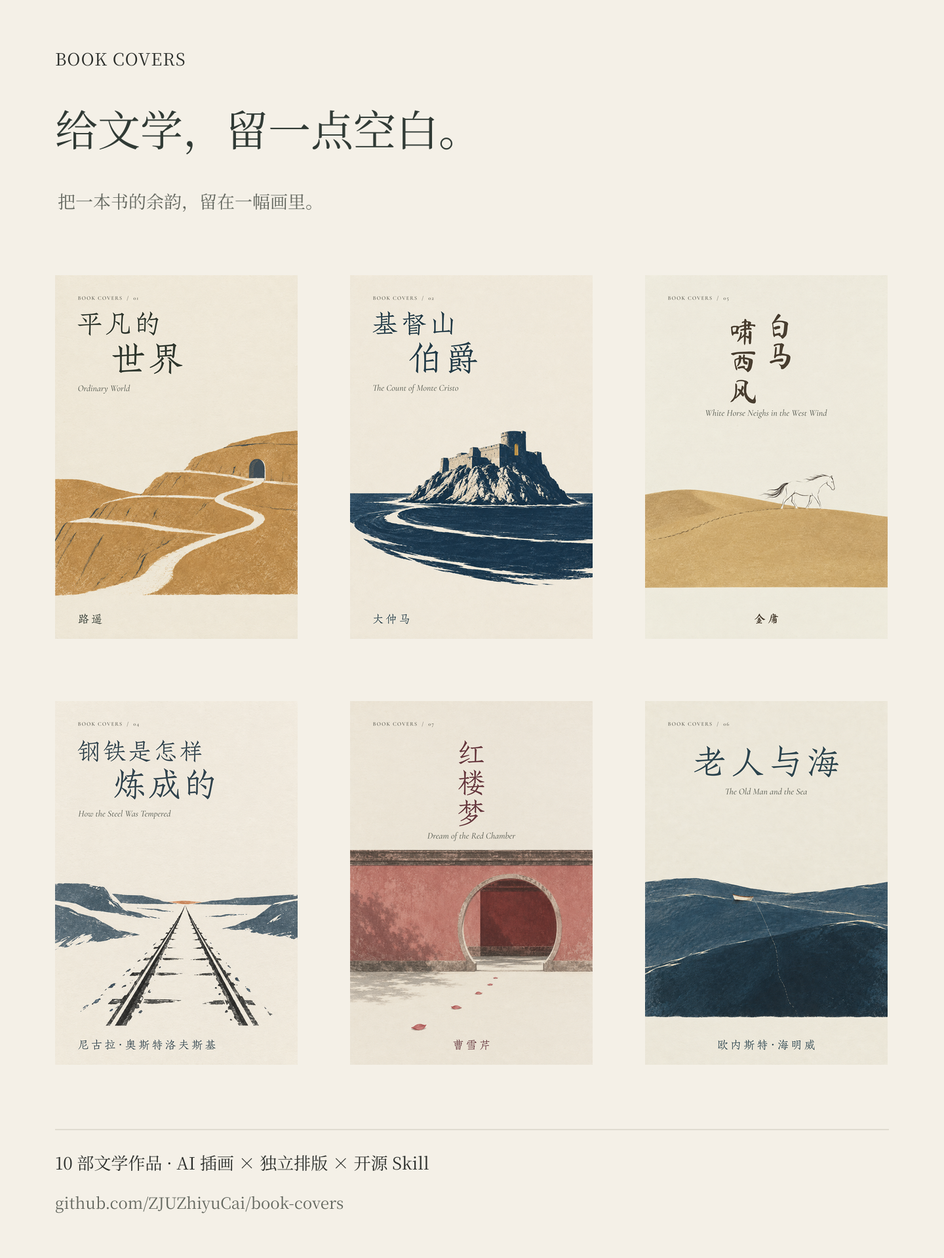
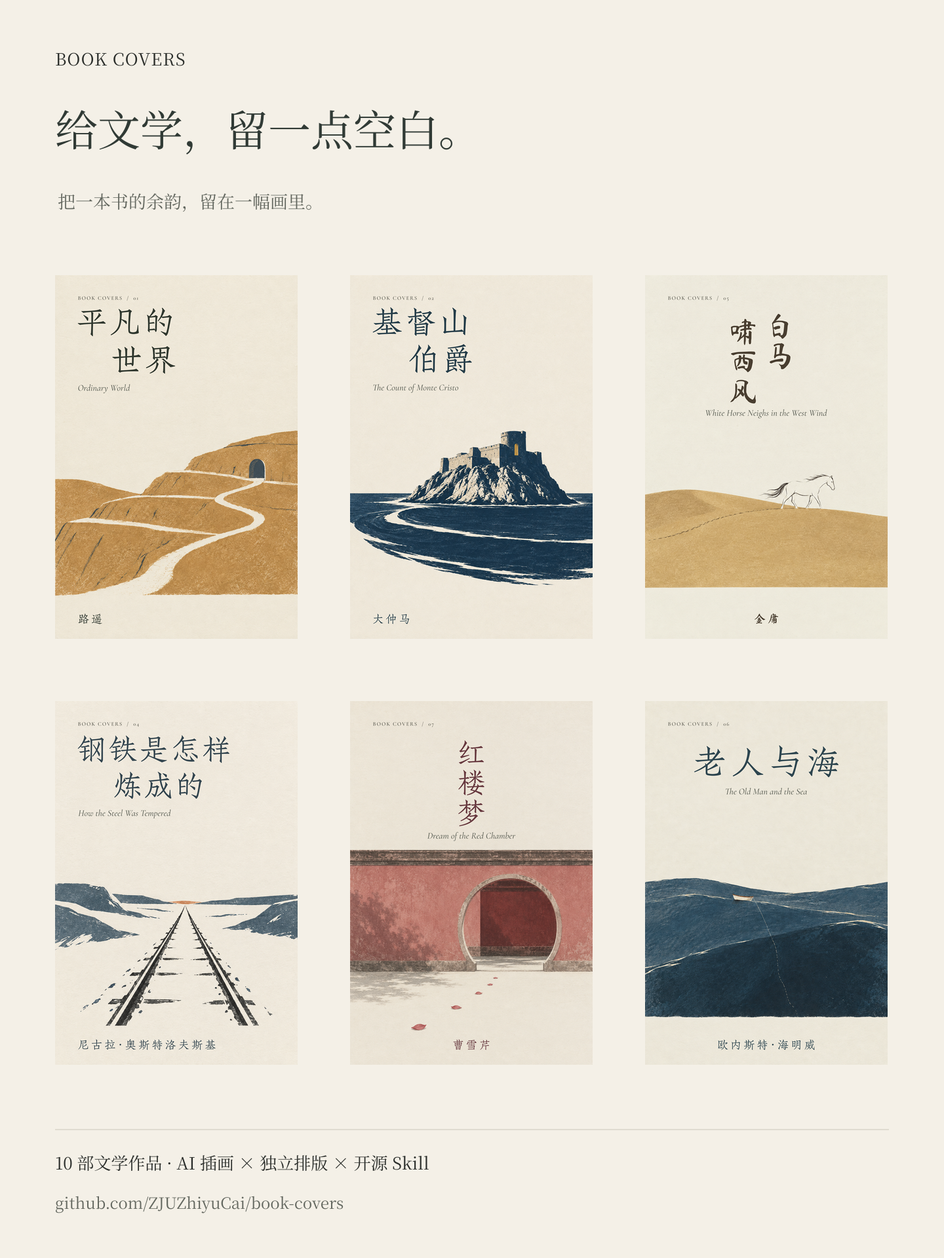
Make skill installation agent-native and equalize Chinese titles

Changed region(s): [[0.0938, 0.5625, 0.25, 0.6562], [0.4062, 0.25, 0.5, 0.3125], [0.0938, 0.25, 0.1875, 0.3125]]

diff --git a/src/style.css b/src/style.css
@@ -468,6 +468,24 @@ a:hover {
   color: #b3bcaa;
   display: block;
 }
+.install-resources {
+  display: flex;
+  flex-wrap: wrap;
+  gap: 12px 22px;
+  margin: 20px 0;
+  font-size: 11px;
+}
+.install-resources a {
+  text-underline-offset: 4px;
+}
+.install-cli {
+  border-top: 1px solid #64705f;
+  padding-top: 15px;
+  font-size: 11px;
+}
+.install-cli summary {
+  cursor: pointer;
+}
 .site-footer {
   padding: 40px 5%;
   display: flex;

diff --git a/skills/book-covers/SKILL.md b/skills/book-covers/SKILL.md
@@ -23,15 +23,24 @@ Prefer relationships that can carry meaning: a path toward a doorway, tracks int
 
 Read [the visual reference](references/art-direction.md) when matching the series. Inspect the four small reference images in `references/images/` when image viewing is available. They are original generated studies, not publisher covers to imitate.
 
-## Generate the illustration
+## Choose a production route
+
+The skill needs the host's image tool, not a font installation or a clone of the whole gallery. Read [typography direction](references/typography.md) for the title treatment, then choose the shortest route that can deliver an accurate finished cover:
+
+- **Image-generated lettering:** when font files/layout tools are unavailable, or the user wants custom drawn letters, generate the illustration, exact title and author together. Use [complete-cover prompting](references/generated-lettering.md). No Node runtime or system fonts are required. Inspect every character; the model's output is not proof of accurate spelling. Do not describe generated letterforms as a particular installed font.
+- **Font-file composition:** when a working renderer or licensed font files are already available, generate the illustration and compose the text deterministically. Load fonts directly by file path; no operating-system font installation is needed. This is preferred for revisions that must preserve the selected illustration pixel-for-pixel and for long or repeated text. The repository already bundles its fonts.
+
+Do not make the user install fonts just to start. Both routes must deliver a complete image containing title and author. A single Chinese title normally has equal character scale and weight, even across lines: `平凡的世界` is one title, not a small phrase plus a large `世界`. Express rhythm through position, spacing, strokes and negative space. A distinct subtitle may be secondary. Respect a user-requested expressive exception.
+
+## Generate the cover or illustration
 
 Use the host's available image-generation capability. In Codex, prefer its built-in image-generation tool. One distinct artwork needs one generation request; a batch is not a collage. Do not silently switch to a paid API or substitute a hand-coded drawing for requested generated artwork. If no image tool is available, provide the finished prompt and report that generation remains undone.
 
-Start from [prompt template](references/prompt-template.txt), replacing the bracketed work, emotion, scene, palette and exclusions. The defaults fit a 2:3 portrait jacket:
+For the font-file route, start from [illustration-layer template](references/prompt-template.txt). For image-generated lettering, use the complete-cover template above instead. Replace the work, emotion, scene, palette and exclusions. The defaults fit a 2:3 portrait jacket:
 
 - Warm ivory paper, about two main ink colours, spare printmaking edges and light grain.
 - A quiet upper area for titles; a scene across the lower middle; a clean author margin at the bottom. The 43% / 47–87% / 9% values are layout targets, not proof of success.
-- Generate the picture without lettering, then **always complete the typography step** for a cover request. Separate source layers are a production method; the final exported cover combines both.
+- With separate layers, generate the picture without lettering and complete the typography step. With image-generated lettering, reserve the same quiet areas and supply exact title/author strings in the prompt. The final cover always contains both.
 - The image should read at roughly 180 px wide. Reduce competing shapes before adding detail or texture.
 
 When a reference image is supplied, describe its role (style reference or edit target) and inspect it first. Preserve the required composition during edits. Save selected artwork in the user's project; never leave a project asset dependent on a private temporary path.
@@ -40,7 +49,7 @@ When a reference image is supplied, describe its role (style reference or edit t
 
 Read [typography direction](references/typography.md) when designing or revising title and author lettering. Inspect its specimen image when image viewing is available. A literary cover needs a deliberate title silhouette, not just a body font placed on an illustration. Choose faces for each script, give long and short titles different rhythms, and set the author with enough presence to feel considered.
 
-Use licensed fonts and deterministic HTML/SVG/image composition. Chinese engraved or brush forms and Latin display roman/true italic are useful directions, not mandatory choices for every work. Keep the exact title and author; do not turn decorative lettering into unreadable glyphs, fake signatures or a claimed official edition. When only typography needs improvement, preserve the selected illustration and compare the old and new text layers on the same art.
+Chinese engraved or brush forms and Latin display roman/true italic are useful directions, not mandatory choices for every work. For font-file composition, use licensed fonts and deterministic HTML/SVG/image composition. For generated lettering, review real output at full size and thumbnail size, checking exact characters and equal Chinese title scale. Do not turn decorative lettering into unreadable glyphs, fake signatures or a claimed official edition. When only typography needs improvement, preserve the selected illustration and compare before/after; disclose any image-edit changes to it.
 
 Inside the Book Covers repository, `catalog.json` holds the book, semantic title breaks and optional per-language `typography` plans; see [implementation notes](references/typography.md#reference-implementation) before editing those plans. Save actual generation prompts under `prompts/`, then use `npm run build` and `npm run export -- --book <id> --lang zh`. The renderer keeps art and outlined type separate and rejects missing glyphs or out-of-bounds layouts. Outside the repository, use the host's normal layout/export tools; the skill itself requires no Node runtime.
 
@@ -51,11 +60,11 @@ Inspect both the full cover and thumbnail:
 - Is there one dominant spatial idea, with enough quiet paper around it?
 - Do ink, grain and contrast belong to the rest of the series?
 - Do both languages fit without truncation, invented translations or missing glyphs?
-- Does the title have a purposeful shape, and does the author remain legible at thumbnail size? Are vertical columns in reading order, italic overhangs clear, and the subtitle visibly secondary?
+- Does the title have a purposeful shape without arbitrarily enlarging some Chinese words? Does the author remain legible at thumbnail size? Are vertical columns in reading order, italic overhangs clear, and the subtitle visibly secondary?
 
 Revise the specific failure. For example, repair an invaded author margin without adding a new illustration concept. A generation prompt is not proof that the output follows it.
 
-Deliver the **complete typeset cover first**, previewing the actual exported image with its title and author. Include the editable type plan, selected source art, exact prompt and generation/edit provenance as supporting materials. For a bilingual project, label the Chinese and English exports clearly. On a website, use these complete covers as the default images; do not add a second browser text overlay or link only to the source illustrations. If generation or typesetting is blocked, name the missing step and do not call the cover complete.
+Deliver the **complete cover first**, previewing the actual exported image with its title and author. Include the exact text, selected source art, prompt and generation/edit provenance; include an editable type plan when that route produced one. For a bilingual project, label the Chinese and English exports clearly. On a website, use these complete covers as the default images; do not add a second browser text overlay or link only to the source illustrations. If generation or typesetting is blocked, name the missing step and do not call the cover complete.
 
 State whether the artwork is a fresh generation or a revision. Image generation is stochastic; promise a reproducible process, not identical pixels or a guaranteed interpretation.
 

diff --git a/README.en.md b/README.en.md
@@ -15,7 +15,7 @@ A path through heavy earth. Railway tracks into winter. A small boat within a la
 - A bilingual static gallery with a permanent page for every cover.
 - Original text-free artwork, design briefs, exact prompts and generation provenance.
 - An independently installable [book-covers skill](skills/book-covers/SKILL.md), including four artwork references, bilingual type specimens and a review method.
-- A deterministic typesetting pipeline. Titles and author names use licensed font outlines, not AI-generated lettering.
+- A deterministic typesetting pipeline. The reference gallery uses licensed font outlines; the standalone skill also supports image-generated lettering.
 - Five 1440 × 1920 presentation sheets and a wide project banner in [press/](press/).
 
 The illustrations were made with OpenAI's built-in image-generation tool. Generation is stochastic: the process and actual outputs are shared, but identical prompts do not guarantee identical pixels. The gallery has no generation API, backend account or API-key requirement.
@@ -32,28 +32,39 @@ The illustrations were made with OpenAI's built-in image-generation tool. Genera
 
 Four founding studies came from the author's personal-library design exploration; six were created for this project. These are independent interpretations, not publisher editions. No novel text is included.
 
-## Install the skill
+## Install with your agent
 
-The skill itself needs no Node runtime. Download `book-covers-v1.2.1.zip` from the latest release and place the enclosed `book-covers` directory in your agent's skills directory. Codex defaults to `~/.codex/skills/`, or `$CODEX_HOME/skills/` when configured.
-
-Alternatively, with Node.js 22+:
-
-```sh
-git clone https://github.com/ZJUZhiyuCai/book-covers.git
-cd book-covers
-npm ci
-npm run skill:install
-```
-
-Existing installations are preserved. After reviewing local edits, use `npm run skill:install -- --force` to update. Reload your agent session, then try:
+**Give this prompt to Codex or another skill-capable agent:**
 
 ```text
-Use $book-covers to design a cover for To the Lighthouse.
-Keep the lighthouse small and let distance carry the emotion.
-Deliver the artwork, English cover and exact generation prompt.
+Please install the Book Covers skill:
+https://github.com/ZJUZhiyuCai/book-covers/tree/main/skills/book-covers
+Use your native skill installer and include its resources.
+Preserve local edits before updating. Tell me how to invoke it.
 ```
 
-Other agents that support directory-based skills can read the same folder. Actual image generation and export depend on the host's capabilities. Without an image tool, the skill produces a finished prompt and reports that the image remains ungenerated.
+Codex can install this GitHub directory with its built-in `skill-installer`. There is no manual ZIP download, gallery dependency installation or system font setup. On the following turn, try:
+
+```text
+Use $book-covers to design a complete cover for Ordinary World by Lu Yao.
+Include the title and author; use equal character size and weight for 平凡的世界.
+```
+
+Other agents can use a native installer or the [Skills CLI](https://github.com/vercel-labs/skills):
+
+```sh
+npx skills add ZJUZhiyuCai/book-covers --skill book-covers
+```
+
+Select the intended agent and scope. This optional CLI route requires Node/npm; the skill does not. See [INSTALL.md](INSTALL.md) for installation and verification. Creating covers requires the host's image-generation capability; installing the skill does not install an image model.
+
+## Two ways to finish the lettering
+
+When local font files or layout tools are inconvenient, generate the exact title and author as part of the complete cover, then inspect every character. No font installation is required. See the [tested generated-lettering example](process/generated-lettering/ordinary-world-zh.png), [actual prompt](prompts/ordinary-world-generated-lettering.txt) and [provenance](process/generated-lettering/provenance.json).
+
+When a renderer is already available, compose with licensed font files for exact wording and repeatable layouts. This repository reads its bundled fonts directly, without installing them into the operating system. The ten reference-gallery covers retain this approach and their original artwork.
+
+Chinese titles use one character scale and weight across lines. Position, spacing, strokes and negative space carry the rhythm; a translated subtitle or author can remain secondary. English can retain deliberate phrase-level hierarchy and roman/italic contrast.
 
 ## Run and export
 

diff --git a/skills/book-covers/references/typography.md b/skills/book-covers/references/typography.md
@@ -18,7 +18,7 @@ Top row: engraved, brush and vertical Chinese setting. Bottom row: English roman
 | English connective phrase or author | A real italic with its own drawn letterforms | Cormorant Garamond Italic |
 | Chinese author | A quiet engraved or written form with room around a short name | Usually the Chinese title family |
 
-These faces are examples. Another face may better suit the work or the user's preference. The three families above have OFL sources linked below; preserve their notices when distributing font files. The small standalone skill includes specimen images, not font binaries. Use available licensed fonts or retrieve them from the original distributors before rendering; never silently substitute and claim the intended face was used.
+These faces are examples. Another face may better suit the work or the user's preference. The three families above have OFL sources linked below; preserve their notices when distributing font files. The small standalone skill includes specimen images, not font binaries. Load available licensed font files directly; the repository bundles these faces and does not require a system font installation. If files or a renderer are inconvenient, use [generated lettering](generated-lettering.md) instead of making font setup a prerequisite. Never silently substitute and claim the intended face was used.
 
 Avoid fake slanting, horizontal stretching, faux bold and random glyph rotations. A brush font is not automatically more artistic, and neither a title nor an author's name should resemble an invented personal signature.
 
@@ -26,7 +26,7 @@ Avoid fake slanting, horizontal stretching, faux bold and random glyph rotations
 
 Start with exact wording and meaningful breaks. Choose a shape that responds to the picture's mass, horizon and empty field.
 
-- **Stepped horizontal Chinese:** `平凡的 / 世界` and `基督山 / 伯爵` let a second, larger line carry the noun. A modest offset gives the two lines a relationship. Do not break a word just to make an attractive rectangle.
+- **Equal-scale Chinese:** `平凡的世界`, `基督山伯爵` and `钢铁是怎样炼成的` are each one title. Use one character size and weight throughout, including when wrapping as `平凡的 / 世界` or `钢铁是怎样 / 炼成的`. A modest offset, line spacing or brush rhythm can shape the title without inventing a word hierarchy. Do not stretch a short line to match a long one or shrink only the longest line; fit the title as a unit.
 - **Open, short Chinese:** `边城` can occupy one generous line. Increase size before scattering two characters across the full page.
 - **Vertical Chinese:** `红楼梦` can form one upright column; `白马 / 啸西风` can form two, read down each column and from right to left. Keep glyphs upright. Do not rotate a horizontal string by 90°. Handle punctuation explicitly if it occurs; the reference renderer's vertical mode currently targets short unpunctuated Chinese titles.
 - **English phrase hierarchy:** in `The Count of / Monte Cristo`, the lighter italic phrase yields to the principal name. In `Ordinary / World`, a restrained italic second line creates a different rhythm. Use a few deliberate changes, not alternating fonts on every word.
@@ -55,7 +55,7 @@ Before delivery, open the actual exported file: both title and author must be pr
 The Book Covers repository uses `titleLines.zh/en` for semantic text breaks, and optional `typography.zh/en` plans for their treatment:
 
 - `mode`: `left`, `centered`, or Chinese `vertical`.
-- Horizontal `sizes`, `baselines`, `offsets`: one numeric entry per title line, in the 1024 × 1536 coordinate system. `tracking` adjusts spacing; English `italicLines` contains zero-based indices.
+- Horizontal Chinese `size`: one size for the whole title. Legacy `sizes` must have identical entries; the renderer fits all Chinese lines together. English `sizes` may vary by phrase. `baselines` and `offsets` have one entry per line, in the 1024 × 1536 coordinate system. `tracking` adjusts spacing; English `italicLines` contains zero-based indices.
 - Vertical `size`, `top`, `leading`, `centers`, `topOffsets`: positions for short Chinese columns; center coordinates descend from right to left. Individual glyphs remain upright and optically centered.
 - Chinese `face`: `zhuque` or `brush`; English uses separate roman and italic files. `ink` is an optional dark six-digit hex colour drawn from the composition.
 

diff --git a/skills/book-covers/references/generated-lettering.md b/skills/book-covers/references/generated-lettering.md
@@ -1,0 +1,36 @@
+# Complete covers without font setup
+
+Use this route when the host has image generation but no convenient font files/layout tools, or when the user requests custom drawn letters. Generate a finished cover containing the exact book title and author. Font installation, Node.js and this repository's renderer are unnecessary.
+
+![A complete cover with image-generated lettering](images/generated-lettering.jpg)
+
+This tested example has equal-scale Chinese title characters, an English subtitle and the exact author name. It is an image edit, not a font-file composition.
+
+## Prompt the lettering as part of the composition
+
+Resolve the title and author first. Describe a letterform direction (engraved, restrained brush, humanist serif), not a claim to use a specific font. Give the title and author their own quiet fields in the image. For Chinese, all characters of one title have equal visual scale and weight across lines; do not promote a noun or shrink a connective character. Natural differences in strokes are welcome. English can follow phrase-level hierarchy when it helps the composition.
+
+```text
+Create ONE complete literary front cover, portrait 2:3, flat artwork, no mockup.
+Warm ivory paper, spare printmaking, two muted ink colours, generous negative space.
+Book and emotional scene: [verified work, author, one spatial relationship].
+Exact main title: "[title]".
+Title treatment: [engraved / restrained brush / display serif], integrated with the paper and ink.
+For a Chinese title, use one equal character scale and weight for the entire title.
+Line breaks, if needed: [meaningful breaks]; no smaller first phrase or oversized last word.
+Exact author: "[author]", smaller but clearly readable in a quiet bottom margin.
+Optional translated subtitle: "[exact translation]", distinctly secondary.
+Do not add publisher names, endorsements, fake signatures, extra wording or unreadable glyphs.
+The final image must contain the title and author, not just the illustration.
+```
+
+For an existing illustration, supply it as the edit target and name the invariants: scene, palette, scale and composition. Ask to add or repair lettering only. Keep the input intact. Image editing may still alter scene pixels; do not promise pixel-for-pixel preservation.
+
+## Review the actual image
+
+- Read every character of title and author, including small punctuation and translated text. OCR can assist but cannot certify an artistic glyph.
+- Check equal Chinese title scale, reading order, margin clearance, contrast and author legibility at about 180 px wide.
+- Repair a misspelled character or uneven word as a targeted edit. Keep an accurate version rather than accepting a more decorative typo.
+- If accurate text cannot be achieved, switch to a licensed local-font composition when available. If neither route works, report the unresolved lettering; do not call the cover finished.
+
+Deliver the complete image, exact prompt and source/edit provenance. Do not invent an editable font layer for generated pixels. Distinguish generated lettering from a named font and identify any changed illustration details.

diff --git a/INSTALL.md b/INSTALL.md
@@ -1,0 +1,38 @@
+# Install Book Covers with your agent
+
+Give your agent the skill URL. The installable unit is **`skills/book-covers/`**, including its reference files, not this whole gallery.
+
+```text
+Please install the Book Covers skill from:
+https://github.com/ZJUZhiyuCai/book-covers/tree/main/skills/book-covers
+Use your native skill installer and include the referenced resources.
+If already installed, preserve local edits before updating.
+Tell me how to invoke it when installation is complete.
+```
+
+## Codex
+
+Codex's built-in `skill-installer` accepts that GitHub directory URL. Ask Codex to use it; there is no ZIP to unpack, gallery dependency to install, or font setup to perform. The installer follows the host's configured skills directory. The skill becomes available on a subsequent turn after discovery refreshes.
+
+## Other agents
+
+Use the host's native installer when it supports an Agent Skills directory. If it uses the [open skills CLI](https://github.com/vercel-labs/skills), the equivalent command is:
+
+```sh
+npx skills add ZJUZhiyuCai/book-covers --skill book-covers
+```
+
+The CLI lets you select the agent and installation scope. For an explicitly selected agent, add `--agent claude-code`, `--agent codex`, or another supported identifier. Do not select all agents or change global settings unless requested. This CLI route requires Node/npm; the skill itself does not. A host without skill installation can read `SKILL.md` and its referenced resources for the current task, but that is session use, not a persistent installation.
+
+## Verify the result
+
+Check that the installed directory contains `SKILL.md` with `name: book-covers`, plus its relative references and reference images. Preserve an existing local variant before replacing it. Report the actual install destination and the host's invocation syntax; do not report success for a link alone.
+
+In Codex, try:
+
+```text
+Use $book-covers to design a complete cover for Ordinary World by Lu Yao.
+Include the exact title and author. Use equal-sized characters for 平凡的世界.
+```
+
+The host must provide image generation to create a new cover. The skill supports either generated lettering with no font setup, or direct font-file composition when a renderer is already available. Installing the skill does not add an image model or API credentials.

diff --git a/docs/verification.md b/docs/verification.md
@@ -29,3 +29,11 @@ GitHub Actions repeats the automated tests and build on the published source; it
 - Runtime composition now rejects overlapping lettering and incorrectly sized source images. The existing twenty layouts still pass; all ten original illustration hashes are unchanged.
 - The skill validator passes. The skill now makes the combined, typeset image the default deliverable, with raw artwork explicitly an intermediate layer. The locally installed copy matches the repository.
 - The new CLI was also used for nine independent website books: eighteen complete covers, including two newly generated illustrations. Chinese desktop and English mobile previews were inspected at 1280 px and 390 px, with all nine correct-language covers loaded and no horizontal overflow. The consuming website uses exported WebP files and has no runtime dependency on this project.
+
+## v1.3 agent installation and Chinese title scale
+
+- Twelve tests pass. New assertions cover equal size and weight across Chinese title lines, group fitting when one line is constrained, and rejection of conflicting Chinese sizes. English phrase hierarchy and all illustration hash/pixel checks remain intact.
+- The open Skills CLI discovered the single `book-covers` skill and installed a complete copy for Claude Code into an isolated project directory. No global Claude Code configuration was changed.
+- The gallery's copy button placed the complete GitHub skill-directory installation prompt on the browser clipboard and displayed its success state. At 390 px, the installation block fits within the viewport with no horizontal overflow.
+- A complete image-generated Ordinary World cover was visually checked for the exact strings `平凡的世界`, `Ordinary World` and `路遥`, with equal-sized Chinese characters. Its prompt, source and output hashes are recorded in `process/generated-lettering/provenance.json`. This single example demonstrates the no-font route; it is not a guarantee of spelling accuracy in future generations.
+- Five Chinese covers for the independent personal website were re-exported with equal title sizes; the nine English exports are byte-identical to their previous versions. The source illustrations and reading links are preserved.

diff --git a/skills/book-covers/references/ASSETS.md b/skills/book-covers/references/ASSETS.md
@@ -1,6 +1,6 @@
 # Reference image license
 
-The four images in `images/` are reduced copies of original AI-generated literary studies from Book Covers, created under Zhiyu Cai's art direction. They are not publisher covers. They are offered under Creative Commons Attribution 4.0 International, to the extent the contributor has rights to license.
+The four founding artwork images in `images/` are reduced copies of original AI-generated literary studies from Book Covers, created under Zhiyu Cai's art direction. They are not publisher covers. They are offered under Creative Commons Attribution 4.0 International, to the extent the contributor has rights to license.
 
 Suggested credit: Book Covers — Zhiyu Cai, AI-generated illustration, CC BY 4.0.
 
@@ -10,4 +10,6 @@ License: https://creativecommons.org/licenses/by/4.0/
 
 The skill instructions and prompts use the MIT license included in the skill folder.
 
-`images/typography.jpg` shows six typeset derivatives from Book Covers v1.2.1. It uses Zhuque Fangsong, Ma Shan Zheng and Cormorant Garamond; no font binaries are included in this skill. Font sources and selection guidance appear in [typography.md](typography.md).
+`images/typography.jpg` shows six typeset derivatives from Book Covers v1.3.0. It uses Zhuque Fangsong, Ma Shan Zheng and Cormorant Garamond; no font binaries are included in this skill. Font sources and selection guidance appear in [typography.md](typography.md).
+
+`images/generated-lettering.jpg` is a reduced derivative of the no-font Ordinary World demonstration. Both its illustration edit and lettering were produced with the built-in image tool on 2026-10-16. Full image, actual prompt and provenance: https://github.com/ZJUZhiyuCai/book-covers/tree/main/process/generated-lettering

diff --git a/docs/design.md b/docs/design.md
@@ -17,3 +17,9 @@ The first version put title, translation and author in a single body-oriented se
 The collection shares paper, margins and imprint but varies the title silhouette: stepped Chinese phrases, open short titles, a few upright vertical columns, and English phrase hierarchies. All wording stays in `titleLines`; editable `typography` plans carry each language's composition. Optical bounds include italic overhangs and CJK sidebearings. Before/after comparisons retain identical illustration content. See [the reusable typography reference](../skills/book-covers/references/typography.md).
 
 Source illustrations stay intact. WebP previews are resized derivatives; PNG jackets add separately rendered title and author typography. Two new illustrations needed image-tool revisions to restore a clear author margin; their original drafts and revision prompt remain in `process/` and `prompts/`.
+
+## Agent installation and equal-scale Chinese titles · v1.3
+
+The primary entry is a copyable natural-language installation request pointing to the skill directory. Codex uses its native installer; other compatible agents can use their installer or the open Skills CLI. No gallery checkout or system font setup is required to use the skill.
+
+A Chinese title is one typographic unit: fit every line at the same size rather than promoting individual words. The reference renderer uses bundled font files directly and fits Chinese lines together. When local layout is unavailable, the standalone skill can generate lettering with the illustration and must check exact wording in the actual output. The no-font Ordinary World demonstration has separate provenance and does not replace the gallery original.

diff --git a/docs/release-v1.3.0.md b/docs/release-v1.3.0.md
@@ -1,0 +1,13 @@
+# Book Covers v1.3.0
+
+Install the skill by giving its GitHub directory URL to your agent. The gallery now has a copyable installation prompt, a native Codex route and an optional Skills CLI route for other hosts. No manual archive extraction or system-font installation is needed.
+
+Chinese main titles now use equal character size and weight across lines. This corrects the unequal phrase sizing in Ordinary World, The Count of Monte Cristo and How the Steel Was Tempered. The renderer fits Chinese title lines as one group, and rejects conflicting sizes. The selected illustrations are unchanged.
+
+The standalone skill can also generate the exact title and author inside the image when font files or layout tools are inconvenient. A complete Ordinary World example, its prompt and provenance demonstrate this route. Generated lettering is checked visually and is not claimed to be a particular font or an editable text layer. The reference gallery continues to use bundled font files directly for predictable revisions.
+
+- [Install with your agent](https://github.com/ZJUZhiyuCai/book-covers/blob/main/INSTALL.md)
+- [Gallery](https://zjuzhiyucai.github.io/book-covers/)
+- [Generated-lettering example](https://zjuzhiyucai.github.io/book-covers/process/generated-lettering/ordinary-world-zh.png)
+
+Validation: twelve automated tests pass, including Chinese group fitting, unequal-size rejection, title/author fidelity and unchanged illustration pixels. Ten studies build into twenty covers and twenty-three HTML pages. Release archives remain available for archiving and artwork export; they are not the primary skill-installation flow.

diff --git a/ASSETS.md b/ASSETS.md
@@ -24,3 +24,5 @@ Noto Serif SC is distributed by [Google Fonts](https://github.com/google/fonts/t
 The v1.1 cover layer adds [Zhuque Fangsong](https://github.com/TrionesType/zhuque) preview v0.212 by TrionesType, [Cormorant Garamond](https://github.com/CatharsisFonts/Cormorant) roman and italic by Christian Thalmann, and [Ma Shan Zheng](https://github.com/google/fonts/tree/main/ofl/mashanzheng) for selected brush titles. Google Fonts distributes the latter two; their metadata and original OFL notices are kept beside the font files. Original bytes, source URLs and SHA-256 hashes are listed in `fonts/SOURCES.json`. No system or proprietary fonts are redistributed.
 
 `process/typography-v1/` contains two 640 × 960 WebP derivatives of the public v1.0.0 covers, retained solely for the before/after typography sheet. The updated `press/` sheets and the skill's `references/images/typography.jpg` use the same generated illustration originals with a new, separately rendered text layer. They are derivatives under the artwork license above. Source illustration hashes are unchanged.
+
+`process/generated-lettering/ordinary-world-zh.png` is a complete image-generation edit made on 2026-10-16 from the original Ordinary World artwork. Its title, subtitle, author and imprint are generated pixels, not named font outlines. The exact prompt and provenance are linked in that directory; it demonstrates the optional no-font route and is not the gallery default. It uses the artwork license above.
